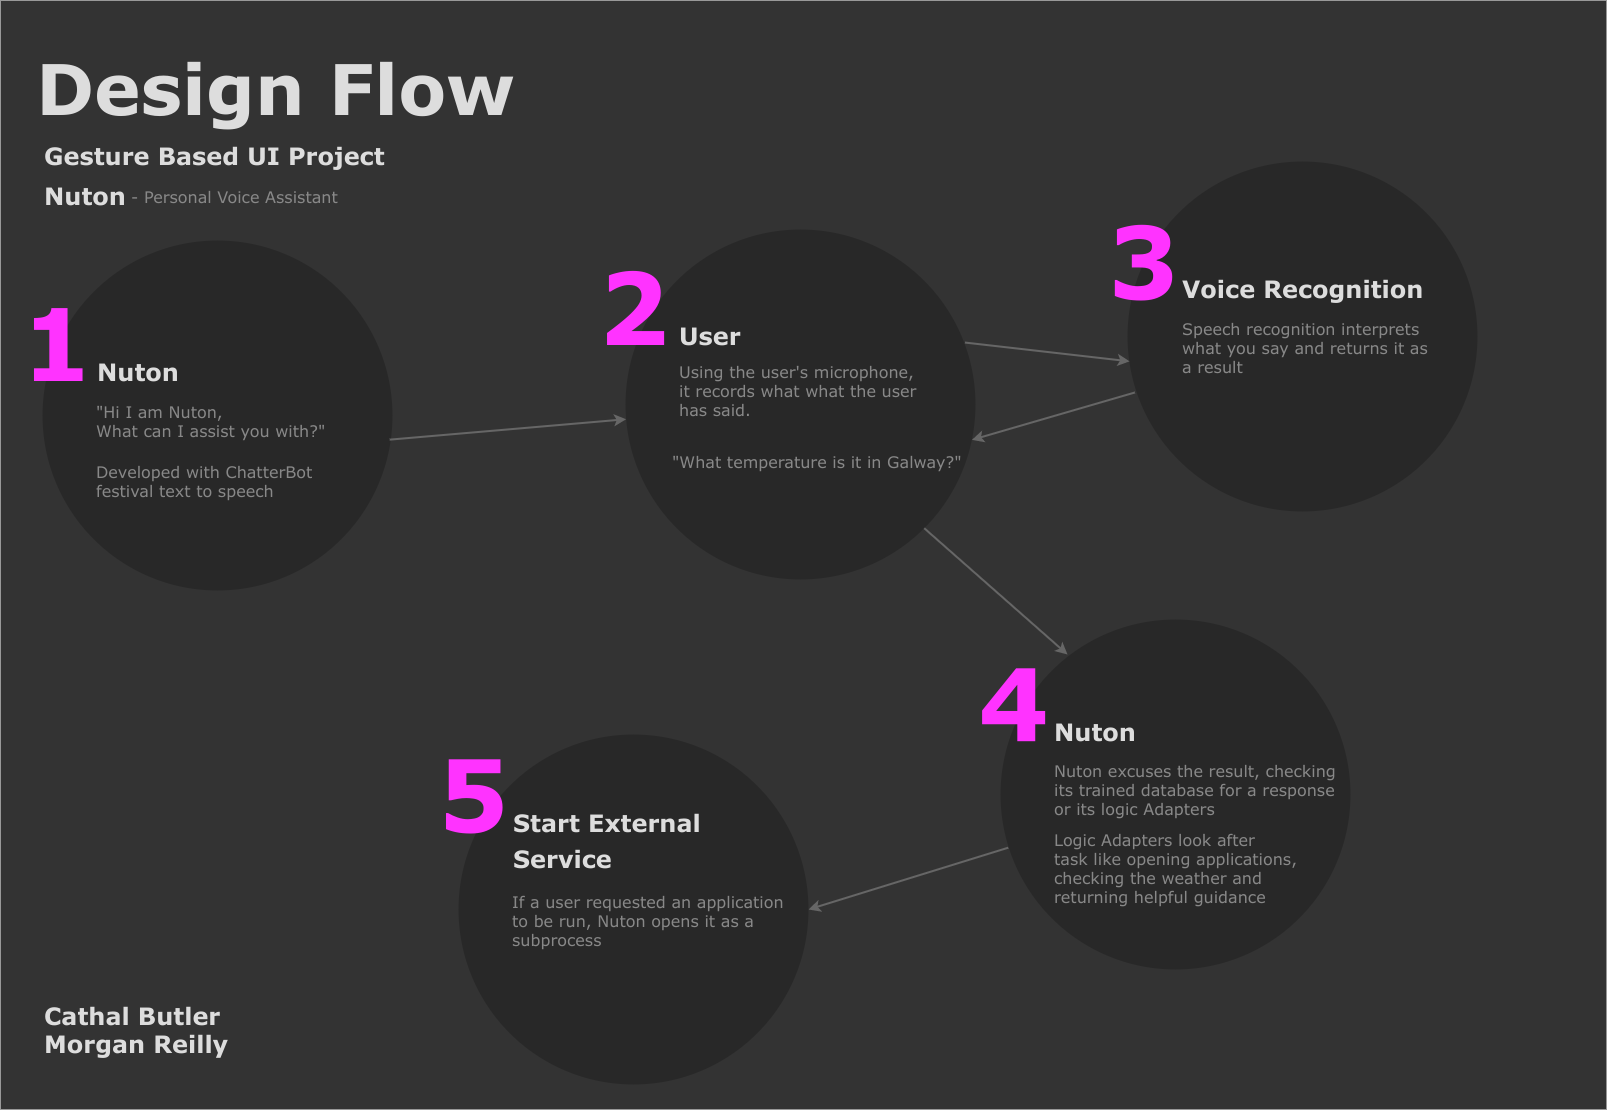
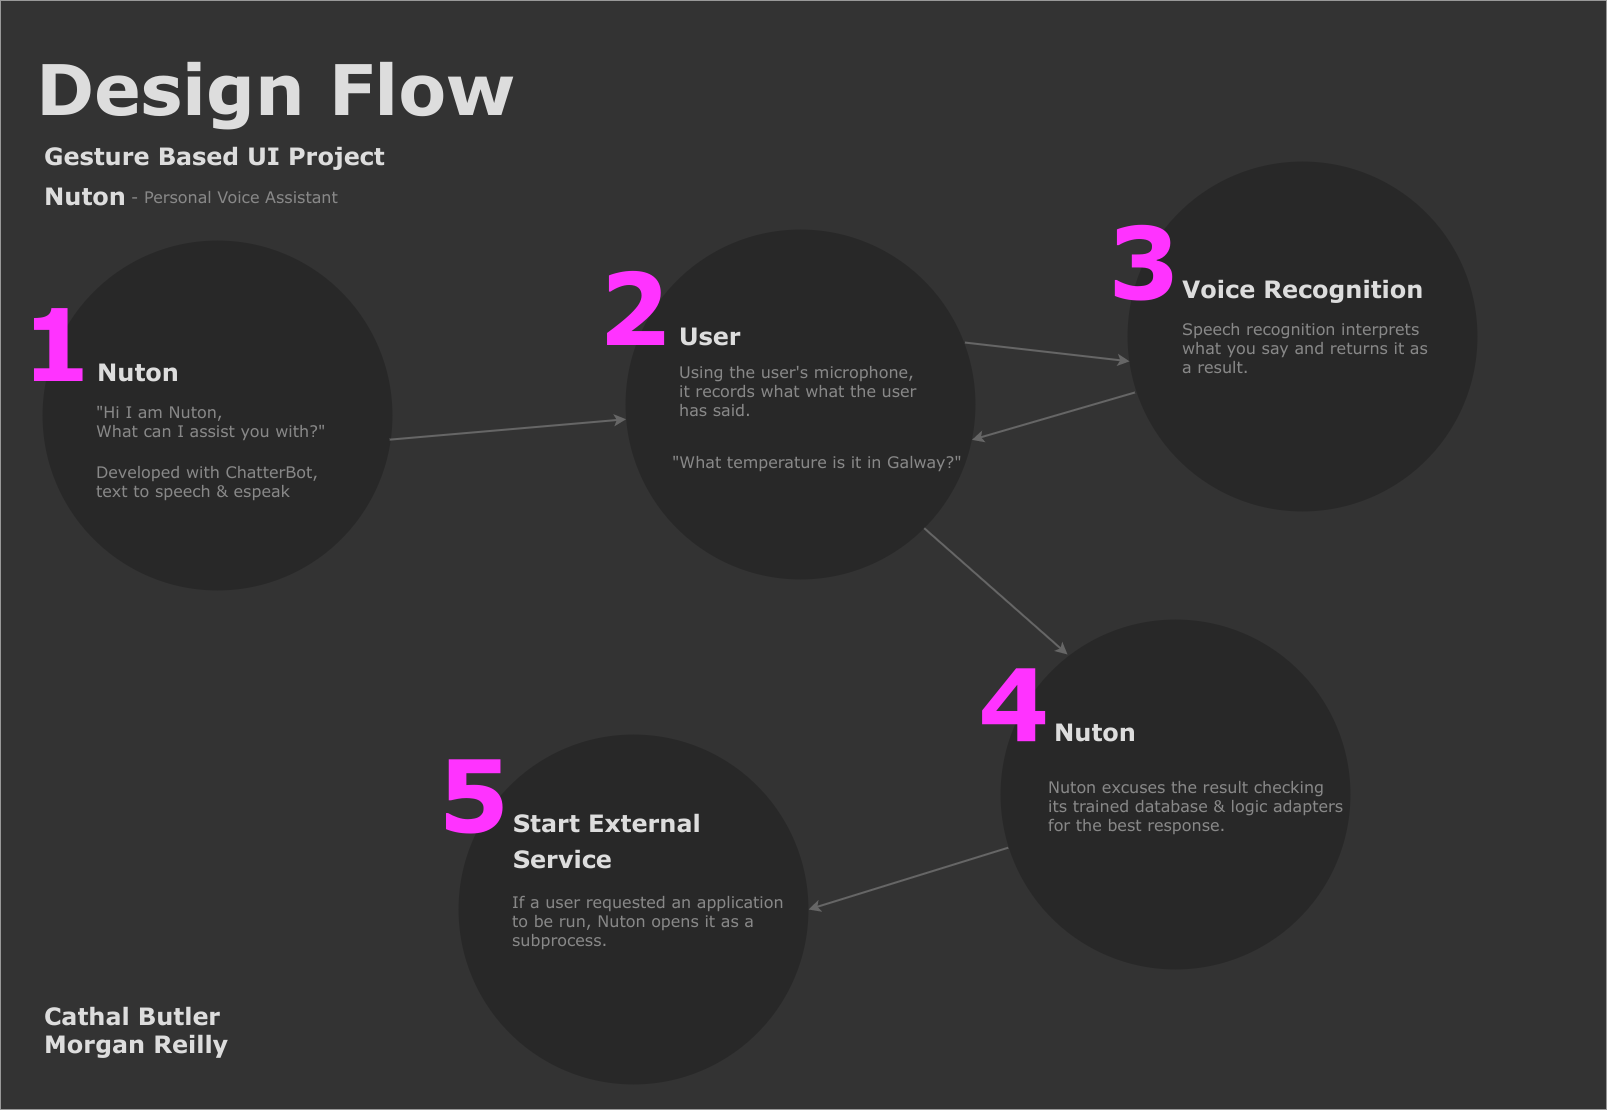
Updated Nutons text to speech to now use eSpeak as its more compatible. Updated README.md
* Fixed a function in the helper_adapter.py.
* Added another diagram to display the process flow of the bot.

Changed region(s): [[0.6534, 0.6739, 0.8401, 0.827], [0.0622, 0.4288, 0.1867, 0.4595]]

diff --git a/chatbot/helper_adapter.py b/chatbot/helper_adapter.py
@@ -34,19 +34,19 @@ class HelperAdapter(LogicAdapter):
         """
         from chatterbot.conversation import Statement
 
-        # if input_statement.find('display examples'):
-        #     response_statement = Statement(text='1. Maths : What is four plus four? '
-        #                                         '2. Lunch Application: open chrome - this will do a look up '
-        #                                         'in the applications list(hardcoded atm) '
-        #                                         '3. Weather: what temperature is it in Galway - Maybe add onto this '
-        #                                         'this')
-        #     confidence = 1
-        #     response_statement.confidence = confidence
-        #     return response_statement
-        # else:
-        response_statement = Statement(
-            text='Hey! My name is Nuton! I can give you the weather for any location,'
-                 ' I can open applications for you, along with more help!')
-        confidence = 1
-        response_statement.confidence = confidence
-        return response_statement
+        if input_statement.text == 'display examples':
+            response_statement = Statement(text='1. Maths : What is four plus four? '
+                                                '2. Lunch Application: open chrome - this will do a look up '
+                                                'in the applications list(hardcoded atm) '
+                                                '3. Weather: what temperature is it in Galway - Maybe add onto this '
+                                                'this')
+            confidence = 1
+            response_statement.confidence = confidence
+            return response_statement
+        else:
+            response_statement = Statement(
+                text='Hey! My name is Nuton! I can give you the weather for any location,'
+                     ' I can open applications for you, along with more help!')
+            confidence = 1
+            response_statement.confidence = confidence
+            return response_statement

diff --git a/chatbot/chatbot.py b/chatbot/chatbot.py
@@ -1,7 +1,6 @@
 import logging
 import platform
 import subprocess
-
 import speech_recognition as sr
 from chatterbot import ChatBot
 from chatterbot.trainers import ChatterBotCorpusTrainer
@@ -86,7 +85,7 @@ recognizer = sr.Recognizer()
 
 def nuton_speak(text):
     """
-    Function that uses festival, a text to speech package to replay to the user
+    Function that uses espeak, a text to speech package to replay to the user
     :param text: text you wish to be spoke
     """
     if platform.system() == 'Darwin':
@@ -98,7 +97,7 @@ def nuton_speak(text):
     else:
         print('Nuton: ' + str(text))
         subprocess.run(
-            'echo "' + str(text) + '" | festival --tts',
+            'echo "' + str(text) + '" | espeak',
             shell=True)
 
 
@@ -112,7 +111,7 @@ def display_header():
 def main():
     display_header()
     # First question from bot using text to speech)
-    # nuton_speak('Hi I am Nuton, What can I assist you with?')
+    nuton_speak('Hi I am Nuton, What can I assist you with?')
 
     while True:
         try:
@@ -131,7 +130,7 @@ def main():
                     2. Lunch Application: 'open chrome' - this will do a look up in the applications list(hardcoded atm)
                     3. Weather: 'what temperature is it in Galway' - Maybe add onto this this
                 """
-                response = bot.get_response("what can you do")  # Hardcoded text for testing, not using mic
+                response = bot.get_response("")  # Hardcoded text for testing, not using mic
                 nuton_speak(response)
 
         except sr.UnknownValueError:

diff --git a/README.md b/README.md
@@ -12,8 +12,8 @@ This project was initially meant to be a Kinect game but was changed due to hard
 The aim for this project is to make something based around gesture based UI, after carrying out some research it was decided that a
 personal voice assistant is what the project was going to be based on using 
    * [Chatterbot](https://chatterbot.readthedocs.io/en/stable/) | Machine Learning, conversational dialog engine.
-   * [Speech Recognition](https://pypi.org/project/SpeechRecognition/) | Speech Recognition engine using the Google API
-   * [Festival](http://www.cstr.ed.ac.uk/projects/festival/) | Multi-lingual text-to-speech package
+   * [Speech Recognition](https://pypi.org/project/SpeechRecognition/) | Speech Recognition engine using the Google API.
+   * [eSpeak](http://espeak.sourceforge.net/) | Open source speech synthesizer for English and other languages.
   
 ### What is Nuton
 Nuton is your bot that will interpret voice commands you issue it. It does this with the help of the package 
@@ -26,18 +26,18 @@ and so on.
 
 ![](uploads/nuton.png)
 
-* ###How Nuton Works
+* ### How Nuton Works
     * Nuton is created and trained using [Chatterbot](https://chatterbot.readthedocs.io/en/stable/) a Python machine learning, 
     conversational dialog engine. A Chatterbot starts off with no knowledge of how to communicate but with the help
     of user input, corpus data and logic adapters, the bot can learn and return the correct response to the users input.
     
         ![](uploads/nutons_process_flow.png)
         
-* ###Training
+* ### Training
     *  Chatterbot has a lot of corpus data files you can use to train the bot or you can specify your own one. In Nutons case
     the English corpus was used for training as well as some custom coupes data that works better with custom logic adapters
   
-* ###Gesture Implementation With Hardware
+* ### Gesture Implementation With Hardware
     *  As the project statement states, *develop an application with natural user interacting* this was done by 
     implementing a microphone into the program to record the user's voice. With the help of the Python Speech Recognition 
     engine, it analyzes the audio and return the result as text. The text result would then be passed onto the Chatterbot 
@@ -45,8 +45,6 @@ and so on.
 
 
 ### Environment Setup -- Linux
-* Note: [Festival](http://www.cstr.ed.ac.uk/projects/festival/) may need to be manully installed if it is not already
-installed with your OS, this can be done through your package manager (apt, pacman, yum ...)
 * Download [requirements.txt](/requirements.txt)
 * Create Virtual Environment
 * `python3 -m venv venv`
@@ -55,11 +53,16 @@ installed with your OS, this can be done through your package manager (apt, pacm
 * Pip install packages
 * `pip install -r requirements.txt`
 
-### Festival Setup -- Ubuntu
-* `$ sudo apt-get install festival && sudo apt-get install festival-dev && sudo apt-get install festlex-poslex && sudo apt-get install festlex-cmu`
-* If correctly installed, test by running:
-* `$ echo "hello world" | festival --tts`  A voice should read out "Hello world"
-* In my case I was missing the voices directory, this should [help with missing voices](https://ubuntuforums.org/showthread.php?t=677277)
+### Espeak Setup -- Linux
+ * Ubuntu
+    - `sudo apt-get install espeak`
+    - Test `echo "Hello World." | espeak`
+    - Hello World will be played back to you.
+    
+ * Manjaro / Arch Linux
+    - `sudo pacman -S espeak`
+    - Test `echo "Hello World." | espeak`
+    - Hello World will be played back to you.
 
 ### Running The Application
 * Assuming correct set up and activation of environment
@@ -76,7 +79,7 @@ This project was developed and tested on
 ### References
  * https://chatterbot.readthedocs.io/en/stable/index.html
  * https://github.com/Uberi/speech_recognition#readme
- * http://www.cstr.ed.ac.uk/projects/festival/
+ * http://espeak.sourceforge.net/
  * https://realpython.com/python-speech-recognition/
  * https://cmusphinx.github.io/wiki/tutorial/
  * https://github.com/Uberi/speech_recognition/blob/master/reference/library-reference.rst
